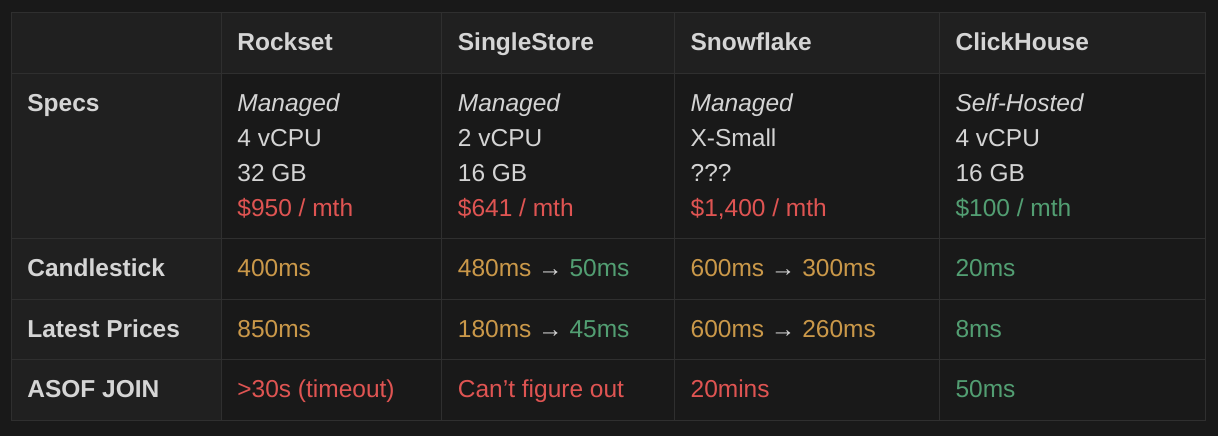
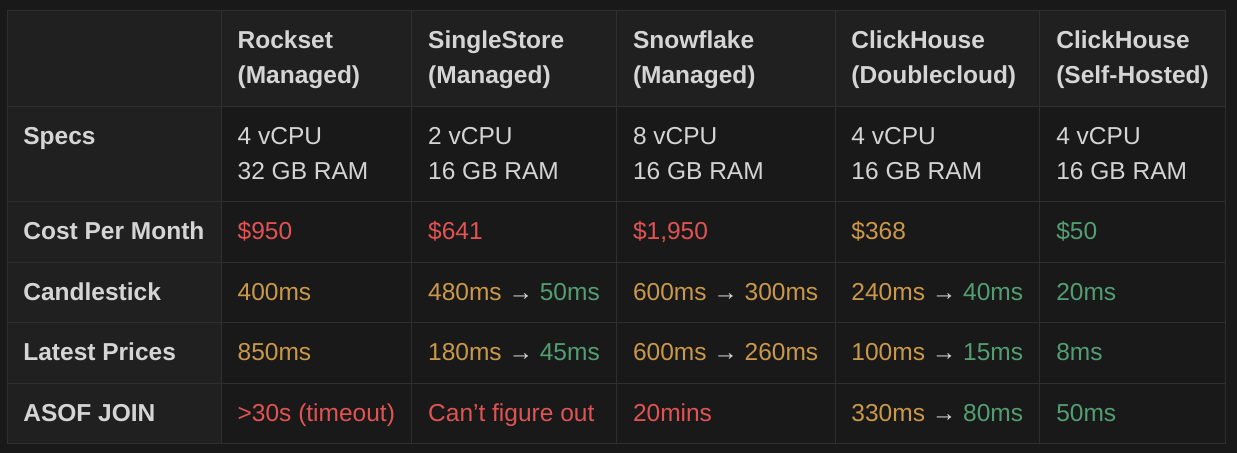
update benchmark

diff --git a/slides.md b/slides.md
@@ -187,8 +187,7 @@ layout: statement
 </div>
 
 <div class="fixed bottom-12 text-zinc-500 text-xs">Data as of June 2022</div>
-<div class="fixed bottom-8 text-zinc-500 text-xs">* Inferred from online benchmarks and other resources</div>
-
+<div class="fixed bottom-8 text-zinc-500 text-xs">* Inferred from online benchmarks and other resources; may be inaccurate</div>
 
 ---
 layout: statement
@@ -196,11 +195,12 @@ layout: statement
 
 A (Pretty Naive) Benchmark
 
-<div class="h-full flex justify-center items-center">
+<div class="h-full flex justify-center items-center -mt-3">
   <img src="/benchmark.png" class="rounded w-full" />
 </div>
 
-<div class="text-left mt-2 text-zinc-500 text-xs">All tables contain 1M rows</div>
+<div class="text-left mt-2 text-zinc-500 text-xs">Data as of June 2022</div>
+<div class="text-left text-zinc-500 text-xs">All tables contain 1M rows</div>
 
 ---
 ---
@@ -329,14 +329,26 @@ GROUP BY asset_id;
 
 <v-click>
 
+<div class="grid grid-cols-2 items-center">
+
 ```sql
 SELECT
   asset_id,
-  maxMerge(tstamp),
-  argMaxMerge(price)
+  maxMerge(tstamp) AS tstamp,
+  argMaxMerge(price) AS price
 FROM prices_latest
 GROUP BY asset_id;
 ```
+
+```
+Results
+┌─asset_id─┬─tstamp─┬─price─┐
+│ a        │      9 │  2.42 │
+│ b        │      9 │  2.61 │
+└──────────┴────────┴───────┘
+```
+
+</div>
 
 </v-click>
 
